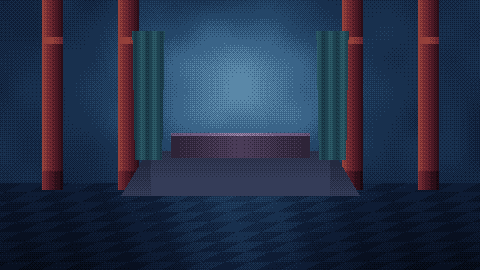
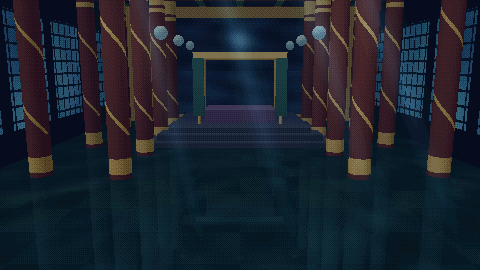
인트로: 용궁 정전을 원근 3D 장면으로 다시 그림, 형제 이름(해강·해명)
- art/intro_hall3d.py: numpy 레이트레이서 — 금띠와 휘감는 용 문양의 옻칠 기둥 열, 단청 우물반자, 기둥과 진주등이
  비치고 물빛 일렁임이 지는 옥 바닥, 파도와 여의주 병풍, 바다빛 창살 창, 3단 단상과 휘장 친 병상, 물 위에서
  내려오는 빛기둥, 깊이 안개. 재질별 팔레트 디더링
- 인트로 샷 2: 용왕은 병상 위, 형들은 단 아래, 대사 이름표 "맏형 해강"·"둘째 해명", 바이블 장면 2의 둘째 대사와
  용왕의 "해강은 힘이 세고, 해명은 지혜롭다" 추가
- 바이블 부록 D에 세 아들 이름 확정(해강 海剛 · 해명 海明 · 처용)

Claude-Session: https://claude.ai/code/session_0191Bts2Qu6HA9JSM3CY8h86

diff --git a/art/intro_hall3d.py b/art/intro_hall3d.py
@@ -1,0 +1,238 @@
+"""용궁 정전(正殿) — 인트로 샷 2~3의 배경을 작은 원근 3D 장면으로 그린다 (480x270).
+
+A tiny ray tracer in numpy: the camera stands behind the three sons and looks down the hall to
+the sick-bed dais. Receding rows of lacquered pillars with gold bands and a coiling dragon, a
+coffered ceiling in muted 단청, a polished jade floor that mirrors the pillars and carries the
+water's caustics, a painted screen of waves and the pearl behind the dais, lattice windows glowing
+sea-blue on both sides, pearl lanterns, light shafts from the water far above, depth fog.
+Each material is shaded then dithered onto its own ramp, so it stays pixel art.
+"""
+import math
+import numpy as np
+
+W, H = 480, 270
+BAYER = np.array([[0, 8, 2, 10], [12, 4, 14, 6], [3, 11, 1, 9], [15, 7, 13, 5]]) / 16.0
+
+
+def hx(h):
+    h = h.lstrip('#'); return np.array([int(h[i:i + 2], 16) for i in (0, 2, 4)], np.float32)
+
+
+def ramp(*cs):
+    return np.stack([hx(c) for c in cs])
+
+
+RAMPS = {
+    'floor':   ramp('#03080c', '#06121a', '#0a1e26', '#102c34', '#183c44', '#245058', '#36686e'),
+    'inlay':   ramp('#1a1408', '#33260e', '#5a4418', '#86682a', '#b4924a'),
+    'pillar':  ramp('#10060a', '#1c0a10', '#2c1016', '#3e181c', '#522424', '#683430', '#7c463e'),
+    'gold':    ramp('#2a1e0a', '#4a3612', '#6e5220', '#967434', '#bc984e', '#dcbc72'),
+    'ceil':    ramp('#03060c', '#081018', '#0e1a26', '#162636', '#203448'),
+    'dan_g':   ramp('#061612', '#0c2620', '#163a30', '#225242'),
+    'dan_r':   ramp('#14080a', '#261012', '#3a1a1a', '#522624'),
+    'wall':    ramp('#04070e', '#08101c', '#0e1a2c', '#16263e', '#203450'),
+    'screen':  ramp('#050c16', '#0a1828', '#12283e', '#1c3a56', '#2a5272', '#3e6e8e', '#5a8eaa'),
+    'lattice': ramp('#04080e', '#0a1824', '#12304a', '#1e4c6c', '#2e6a8c', '#4a8cae', '#74b2cc'),
+    'dais':    ramp('#06080e', '#0e121c', '#181e2c', '#242c3e', '#323c52', '#465068'),
+    'bed':     ramp('#0e0a12', '#1c1424', '#2c2038', '#3e304e', '#544466', '#6e5c80'),
+    'drape':   ramp('#061416', '#0c2224', '#143436', '#1e4a4a', '#2a6260'),
+    'pearl':   ramp('#1e2c38', '#344e5e', '#527684', '#7a9ea6', '#a6c6c8', '#cce4e0'),
+}
+FOG = hx('#071426')
+
+
+def _sph(o, d, c, r):
+    oc = o - c
+    b = (oc * d).sum(-1)
+    cc = (oc * oc).sum(-1) - r * r
+    disc = b * b - cc
+    t = np.where(disc >= 0, -b - np.sqrt(np.maximum(disc, 0)), np.inf)
+    return np.where(t > 1e-3, t, np.inf)
+
+
+def _cyl(o, d, cx, cz, r, y0, y1):
+    ox, oz = o[:, 0] - cx, o[:, 2] - cz
+    a = d[:, 0] ** 2 + d[:, 2] ** 2
+    b = ox * d[:, 0] + oz * d[:, 2]
+    c = ox * ox + oz * oz - r * r
+    disc = b * b - a * c
+    t = np.where(disc >= 0, (-b - np.sqrt(np.maximum(disc, 0))) / np.maximum(a, 1e-9), np.inf)
+    y = o[:, 1] + d[:, 1] * t
+    return np.where((t > 1e-3) & (y >= y0) & (y <= y1), t, np.inf)
+
+
+def _box(o, d, lo, hi):
+    inv = 1.0 / np.where(np.abs(d) < 1e-9, 1e-9, d)
+    t0 = (np.array(lo) - o) * inv
+    t1 = (np.array(hi) - o) * inv
+    tmin = np.minimum(t0, t1).max(-1)
+    tmax = np.maximum(t0, t1).min(-1)
+    return np.where((tmax >= tmin) & (tmax > 1e-3), np.where(tmin > 1e-3, tmin, np.inf), np.inf)
+
+
+def _plane(o, d, axis, v, sign):
+    t = (v - o[:, axis]) / np.where(np.abs(d[:, axis]) < 1e-9, 1e-9, d[:, axis])
+    return np.where((t > 1e-3) & (d[:, axis] * sign < 0), t, np.inf)
+
+
+PILLARS = [(sx * 3.3, z) for z in (4.8, 7.6, 10.4, 13.2) for sx in (-1, 1)] + [(sx * 5.6, z) for z in (5.0, 9.0, 13.0) for sx in (-1, 1)]
+LANTERNS = [(sx * 2.1, 3.9, z) for z in (5.0, 8.0, 11.0) for sx in (-1, 1)]
+
+
+def scene(o, d, depth=0):
+    """Nearest hit → (t, material, point, normal). Materials are strings; 'none' = far fog."""
+    n = len(o)
+    best = np.full(n, np.inf)
+    mat = np.full(n, 'none', object)
+    nrm = np.zeros((n, 3))
+
+    def take(t, m, normal_fn):
+        nonlocal best
+        win = t < best
+        if win.any():
+            best = np.where(win, t, best)
+            mat[win] = m
+            p = o[win] + d[win] * t[win, None]
+            nrm[win] = normal_fn(p)
+
+    take(_plane(o, d, 1, 0.0, 1), 'floor', lambda p: np.tile([0, 1.0, 0], (len(p), 1)))
+    take(_plane(o, d, 1, 6.2, -1), 'ceil', lambda p: np.tile([0, -1.0, 0], (len(p), 1)))
+    take(_plane(o, d, 2, 16.0, -1), 'screen', lambda p: np.tile([0, 0, -1.0], (len(p), 1)))
+    for sx in (-1, 1):
+        take(_plane(o, d, 0, sx * 7.2, -sx), 'lattice', lambda p, sx=sx: np.tile([-sx, 0, 0], (len(p), 1)))
+    for (cx, cz) in PILLARS:
+        take(_cyl(o, d, cx, cz, 0.3, 0, 6.2), 'pillar', lambda p, cx=cx, cz=cz: np.stack([p[:, 0] - cx, np.zeros(len(p)), p[:, 2] - cz], -1) / 0.3)
+    # dais: three steps, then the bed with its canopy
+    for k, (hw, z0, y) in enumerate(((3.6, 8.6, 0.22), (3.2, 9.0, 0.44), (2.8, 9.4, 0.66))):
+        lo, hi = (-hw, 0.0, z0), (hw, y, 14.6)
+        t = _box(o, d, lo, hi)
+        take(t, 'dais', lambda p, lo=lo, hi=hi: _box_normal(p, lo, hi))
+    lo, hi = (-1.5, 0.66, 10.6), (1.5, 1.25, 12.8)
+    take(_box(o, d, lo, hi), 'bed', lambda p: _box_normal(p, lo, hi))
+    for (px, pz) in ((-1.7, 10.4), (1.7, 10.4), (-1.7, 13.0), (1.7, 13.0)):
+        take(_cyl(o, d, px, pz, 0.07, 0.66, 3.4), 'gold', lambda p, px=px, pz=pz: np.stack([p[:, 0] - px, np.zeros(len(p)), p[:, 2] - pz], -1) / 0.07)
+    lo, hi = (-1.9, 3.35, 10.2), (1.9, 3.6, 13.2)
+    take(_box(o, d, lo, hi), 'gold', lambda p: _box_normal(p, lo, hi))
+    for sx in (-1, 1):   # drapes gathered at the canopy posts
+        lo, hi = (sx * 1.7 - 0.22, 1.0, 10.25), (sx * 1.7 + 0.22, 3.35, 10.55)
+        take(_box(o, d, lo, hi), 'drape', lambda p, lo=lo, hi=hi: _box_normal(p, lo, hi))
+    for (lx, ly, lz) in LANTERNS:
+        take(_sph(o, d, np.array([lx, ly, lz]), 0.18), 'pearl', lambda p, c=np.array([lx, ly, lz]): (p - c) / 0.18)
+    return best, mat, nrm
+
+
+def _box_normal(p, lo, hi):
+    lo, hi = np.array(lo), np.array(hi)
+    c = (lo + hi) / 2; h = (hi - lo) / 2
+    q = (p - c) / h
+    k = np.argmax(np.abs(q), -1)
+    n = np.zeros_like(p)
+    n[np.arange(len(p)), k] = np.sign(q[np.arange(len(p)), k])
+    return n
+
+
+def _noise(x, y, s):
+    return (np.sin(x * 1.7 + s) * np.sin(y * 1.3 - s * 0.7) + np.sin(x * 0.6 - y * 0.9 + s * 2.1)) * 0.25 + 0.5
+
+
+def shade(mat, p, nrm, d):
+    """Material tone in ramp units (before dithering)."""
+    x, y, z = p[:, 0], p[:, 1], p[:, 2]
+    L = np.array([-0.35, 0.85, -0.4]); L /= np.linalg.norm(L)
+    lam = np.clip((nrm * L).sum(-1), 0, 1)
+    glow = np.zeros(len(p))
+    for (lx, ly, lz) in LANTERNS:   # pearl lanterns light their surroundings
+        dd = np.sqrt((x - lx) ** 2 + (y - ly) ** 2 + (z - lz) ** 2)
+        glow += 1.6 / (1.0 + dd * dd * 0.35)
+    tone = np.zeros(len(p))
+    m = mat
+    f = m == 'floor'
+    if f.any():
+        caust = _noise(x[f] * 2.2, z[f] * 2.2, 1.0) * _noise(x[f] * 3.1 + 4, z[f] * 2.7, 2.0)
+        tile = ((np.floor(x[f] / 1.2) + np.floor(z[f] / 1.2)) % 2) * 0.35
+        tone[f] = 1.4 + tile + caust * 1.6 + glow[f] * 0.9 - z[f] * 0.05
+    for name, base, k in (('pillar', 2.0, 3.0), ('dais', 1.4, 2.4), ('bed', 1.6, 2.8), ('drape', 1.2, 2.4), ('gold', 1.6, 3.2)):
+        s = m == name
+        tone[s] = base + lam[s] * k + glow[s] * 0.9
+    s = m == 'pillar'
+    if s.any():   # gold bands top and foot, a dragon coiling up the shaft
+        ang = np.arctan2(p[s, 2] - np.round(p[s, 2] * 2) / 2, p[s, 0])
+        band = (np.abs(y[s] - 0.35) < 0.22) | (np.abs(y[s] - 5.7) < 0.3) | (np.abs(y[s] - 5.2) < 0.08)
+        coil = np.abs(np.mod(y[s] * 0.9 + np.arctan2(nrm[s, 2], nrm[s, 0]) / math.pi, 2.0) - 1.0) < 0.06
+        m_s = np.where(band | (coil & (y[s] > 1.2) & (y[s] < 4.8)), 'gold', 'pillar')
+        mat_s = m[s]; mat_s[:] = m_s; m[s] = mat_s
+    c = m == 'ceil'
+    if c.any():   # coffers: beams in muted 단청 green and red, gold at the crossings
+        bx = np.abs(np.mod(x[c], 2.0) - 1.0) > 0.82
+        bz = np.abs(np.mod(z[c], 2.0) - 1.0) > 0.82
+        sub = np.where(bx & bz, 'gold', np.where(bx, 'dan_g', np.where(bz, 'dan_r', 'ceil')))
+        mm = m[c]; mm[:] = sub; m[c] = mm
+        tone[c] = 1.2 + glow[c] * 1.4 + _noise(x[c], z[c], 3.0) * 0.6
+    sc = m == 'screen'
+    if sc.any():   # the painted screen: rolling waves and the pearl above them
+        wave = np.sin(x[sc] * 2.2 + np.sin(y[sc] * 3.0) * 1.2) * 0.5 + np.sin(y[sc] * 6.0 + x[sc]) * 0.4
+        pearl = np.exp(-((x[sc]) ** 2 + (y[sc] - 4.4) ** 2) / 0.6) * 4.0
+        tone[sc] = 1.6 + wave * 0.8 + (y[sc] < 2.8) * 0.6 + pearl
+        frame = (np.abs(x[sc]) > 3.6) | (y[sc] > 5.6) | (y[sc] < 0.4)
+        mm = m[sc]; mm[frame] = 'gold'; m[sc] = mm
+        tone[sc] = np.where(frame, 2.0, tone[sc])
+    la = m == 'lattice'
+    if la.any():   # lattice windows lit from the sea outside
+        grid = (np.abs(np.mod(z[la], 0.5) - 0.25) < 0.04) | (np.abs(np.mod(y[la], 0.5) - 0.25) < 0.04)
+        win = (np.mod(z[la], 3.0) > 0.6) & (y[la] > 1.0) & (y[la] < 4.8)
+        tone[la] = np.where(win & ~grid, 3.4 + _noise(z[la], y[la], 5.0) * 2.0, 0.8 + glow[la] * 0.5)
+        mm = m[la]; mm[~win] = 'wall'; m[la] = mm
+    pe = m == 'pearl'
+    tone[pe] = 2.8 + lam[pe] * 1.6
+    g = m == 'gold'
+    tone[g] = np.maximum(tone[g], 1.8 + lam[g] * 3.0 + glow[g])
+    return tone, m
+
+
+def render():
+    # camera behind the sons, eye height 2.4m, looking down the hall
+    eye = np.array([0.0, 3.0, -5.5])
+    pitch = math.radians(-10)
+    fov = math.radians(64)
+    ys, xs = np.mgrid[0:H, 0:W]
+    u = (xs + 0.5 - W / 2) / (W / 2) * math.tan(fov / 2)
+    v = -(ys + 0.5 - H / 2) / (W / 2) * math.tan(fov / 2)
+    dcam = np.stack([u, v, np.ones_like(u)], -1).reshape(-1, 3)
+    cp, sp = math.cos(pitch), math.sin(pitch)
+    d = np.stack([dcam[:, 0], dcam[:, 1] * cp + dcam[:, 2] * sp, -dcam[:, 1] * sp + dcam[:, 2] * cp], -1)
+    d /= np.linalg.norm(d, axis=1, keepdims=True)
+    o = np.tile(eye, (len(d), 1))
+    t, mat, nrm = scene(o, d)
+    p = o + d * np.where(np.isfinite(t), t, 30)[:, None]
+    tone, mat = shade(mat, p, nrm, d)
+    # floor reflection: polished jade mirrors the pillars and lanterns faintly
+    f = mat == 'floor'
+    if f.any():
+        rd = d[f].copy(); rd[:, 1] *= -1
+        rt, rm, rn = scene(p[f] + rd * 1e-3, rd)
+        rp = p[f] + rd * np.where(np.isfinite(rt), rt, 30)[:, None]
+        rtone, rm = shade(rm, rp, rn, rd)
+        refl = np.isin(rm, ['pillar', 'gold', 'pearl', 'bed', 'dais'])
+        tone_f = tone[f]
+        tone_f[refl] = tone_f[refl] * 0.65 + rtone[refl] * 0.35
+        tone[f] = tone_f
+    # paint
+    yy, xx = ys.ravel(), xs.ravel()
+    jitter = (BAYER[yy % 4, xx % 4] - 0.5) * 0.9
+    rgb = np.zeros((len(d), 3), np.float32)
+    for name, rmp in RAMPS.items():
+        s = mat == name
+        if s.any():
+            rgb[s] = rmp[np.clip(np.round(tone[s] + jitter[s]), 0, len(rmp) - 1).astype(int)]
+    rgb[mat == 'wall'] = RAMPS['wall'][np.clip(np.round(tone[mat == 'wall'] + jitter[mat == 'wall']), 0, 4).astype(int)]
+    # depth fog toward the sea-dark, and light shafts from the water far above
+    dist = np.where(np.isfinite(t), t, 30)
+    fog = 1 - np.exp(-dist * 0.055)
+    shafts = np.zeros(len(d))
+    for k, sx in enumerate((-2.6, -0.4, 1.8, 3.4)):
+        lx = xx - (240 + sx * 38 + yy * (0.25 + k * 0.04))
+        shafts += np.exp(-(lx ** 2) / (60 + k * 30)) * np.clip(1.2 - yy / 220, 0, 1)
+    rgb = rgb * (1 - fog[:, None] * 0.75) + FOG * fog[:, None] * 0.75
+    rgb += np.array([40, 70, 90]) * (shafts * 0.28)[:, None]
+    q = np.floor(rgb / 6) * 6   # keep the palette tight after fog
+    return np.clip(q, 0, 255).reshape(H, W, 3)

diff --git a/art/intro.py b/art/intro.py
@@ -105,25 +105,11 @@ def shot_sea():
 
 
 def shot_hall():
-    PEARL = ramp('#03060c', '#081020', '#0e1c34', '#18304e', '#244668', '#3a6488', '#5a88a8', '#8ab4c8')
-    g = 2.2 + np.exp(-((xx - 240) ** 2 + (yy - 90) ** 2 * 2) / 14000.0) * 3.5 + noise((H, W), 30, 2) * 0.6
-    floor = yy > 182
-    g = np.where(floor, 1.6 + ((xx + (yy - 182) * 2) // 24 + (yy - 182) // 10) % 2 * 0.5 + np.exp(-((xx - 240) ** 2) / 9000.0) * 1.5 - (yy - 182) * 0.012, g)
-    rgb = dither(g, PEARL)
-    CORAL = ramp('#12060c', '#2a0e18', '#4a1824', '#6e2830', '#94403a')
-    for cx in (52, 128, 352, 428):                    # coral-red pillars with a pearl band
-        u = (xx - cx) / 11.0
-        m = (np.abs(u) < 1) & (yy < 190)
-        t = 2.6 - u * 1.6 + np.where(np.abs(yy - 40) < 4, 1.5, 0) - (yy > 170) * 0.8
-        rgb[m] = dither(t, CORAL)[m]
-    dais = (yy > 150) & (yy < 196) & (np.abs(xx - 240) < 120 - (196 - yy) * 0.6)
-    rgb[dais] = dither(1.8 + (yy - 150) / 46.0 + (np.abs(xx - 240) < 90) * 0.5, ramp('#0a0c14', '#161a28', '#242a40', '#343c58'))[dais]
-    bed = (yy > 132) & (yy < 158) & (np.abs(xx - 240) < 70)
-    rgb[bed] = dither(2.0 + (yy < 136) * 1.6 - np.abs(xx - 240) / 70.0, ramp('#1a1420', '#2e2438', '#4a3c58', '#6e5c80', '#9a88a8'))[bed]
-    for side in (-1, 1):                              # drapes falling either side of the bed
-        dr = (np.abs(xx - (240 + side * 92)) < 16 - (yy - 40) * 0.02) & (yy > 30) & (yy < 160)
-        rgb[dr] = dither(2.2 + np.sin(xx * 0.5) * 0.6, ramp('#0c1a24', '#142c3a', '#1e4250', '#2c5a66'))[dr]
-    save('intro_hall', rgb)
+    """Shots 2–3: the 용궁 main hall, a small perspective 3D scene (art/intro_hall3d.py)."""
+    import importlib.util
+    spec = importlib.util.spec_from_file_location('intro_hall3d', pathlib.Path(__file__).parent / 'intro_hall3d.py')
+    mod = importlib.util.module_from_spec(spec); spec.loader.exec_module(mod)
+    save('intro_hall', mod.render())
 
 
 def shot_night(name='intro_night', shore=True):

diff --git a/docs/story-bible.md b/docs/story-bible.md
@@ -762,6 +762,7 @@
 
 | 항목 | 확정 내용 | 근거 / 쓰이는 곳 |
 |---|---|---|
+| 용왕의 세 아들 | **맏형 해강(海剛)** — 바다처럼 굳센, 힘이 센 장자(봉쇄론의 중심) · **둘째 해명(海明)** — 바다처럼 밝은, 지혜로운 둘째(형을 따름) · **셋째 처용(處容)** | 용왕 대사 "첫째는 힘이 세고, 둘째는 지혜롭다"에 맞춘 이름. 인트로 샷 2, 4장 SC4-02·SC4-09 |
 | 해안 마을 이름 | **개운포(開雲浦)** | 『삼국유사』 처용랑 설화의 처용 등장지. SC1-01~07 레벨 `beach` |
 | 수령 | **개운포 수령 한기(韓琦)** — 녹색 관복, 사모. 처용을 조정에 천거 | SC1-06 |
 | 바다 요괴 | **갯귀** — 물에 빠져 죽은 자들의 한이 해초·따개비와 엉겨 뭍으로 기어오른 것. 해초 머리채 사이로 눈 하나가 차갑게 빛나고, 오른팔은 따개비 덮인 거대한 집게. 정화되면 푸른 넋이 되어 흩어진다 | SC1-05 튜토리얼 전투 (베기→구르기→정화) |
